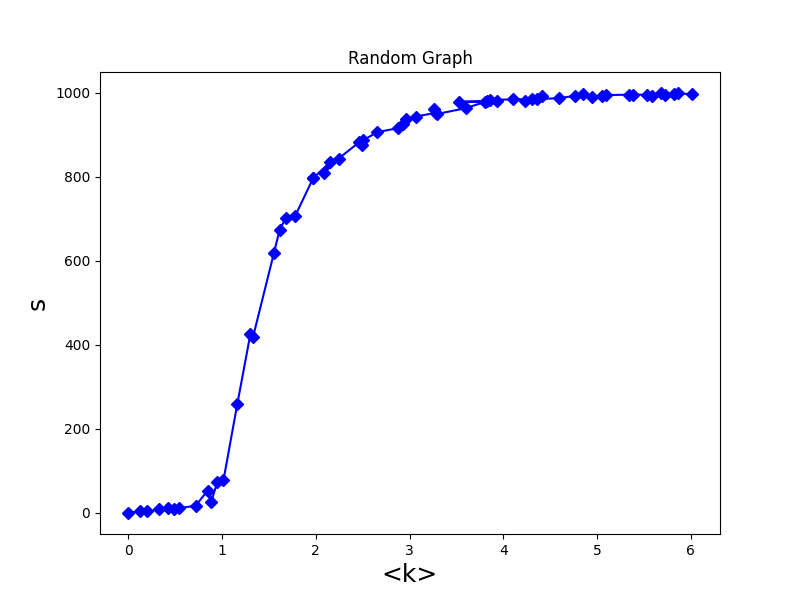
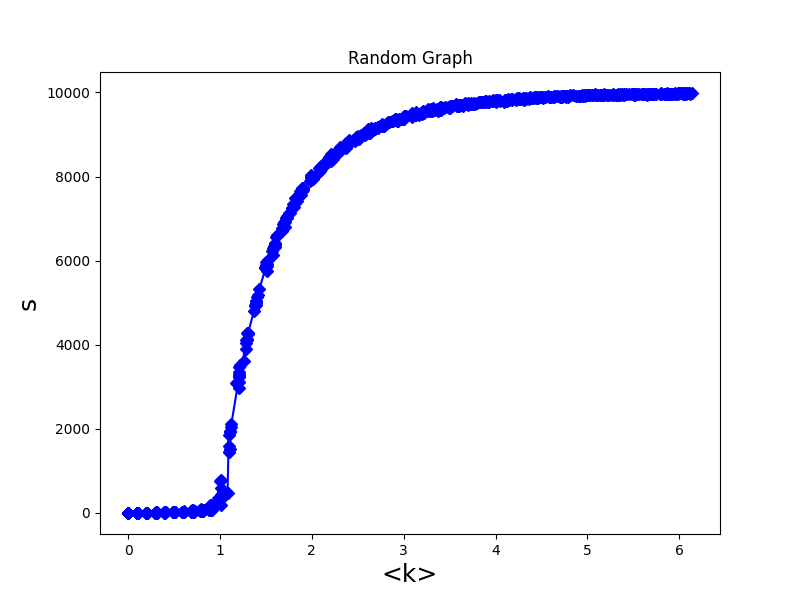
41

diff --git a/Networks1/random_graph.py b/Networks1/random_graph.py
@@ -1,3 +1,4 @@
+import sys
 import numpy as np
 import matplotlib.pyplot as plt
 
@@ -129,11 +130,13 @@ def collect_gcc(nodes: dict[int, list[int]], node: int = 0,
 
     return gcc
     
-m = 200000
+m = 10
 
-p0: float = 0.0001
+p0: float = 0.00001
 
-n: int = int(0.1/p0)
+n: int = 10000#int(1/p0)
+
+sys.setrecursionlimit(n)
 
 points: list[tuple[float, int]] = []
 
@@ -141,13 +144,14 @@ index: int = 0
 
 finished: bool = False
 
-while not finished and index < m:
-    print(f"{index}/{m}")
+while not finished:
     p: float = p0 * index
     index += 1
-    average_degree, gcc_size = construct_graph(n=n, p=p, points=points)
 
-    finished = average_degree > 6
+    for i in range(m):
+        average_degree, gcc_size = construct_graph(n=n, p=p, points=points)
+
+    finished = average_degree > 6 or p >= 1.0
 
 plt.figure(figsize=(8, 6))
 
